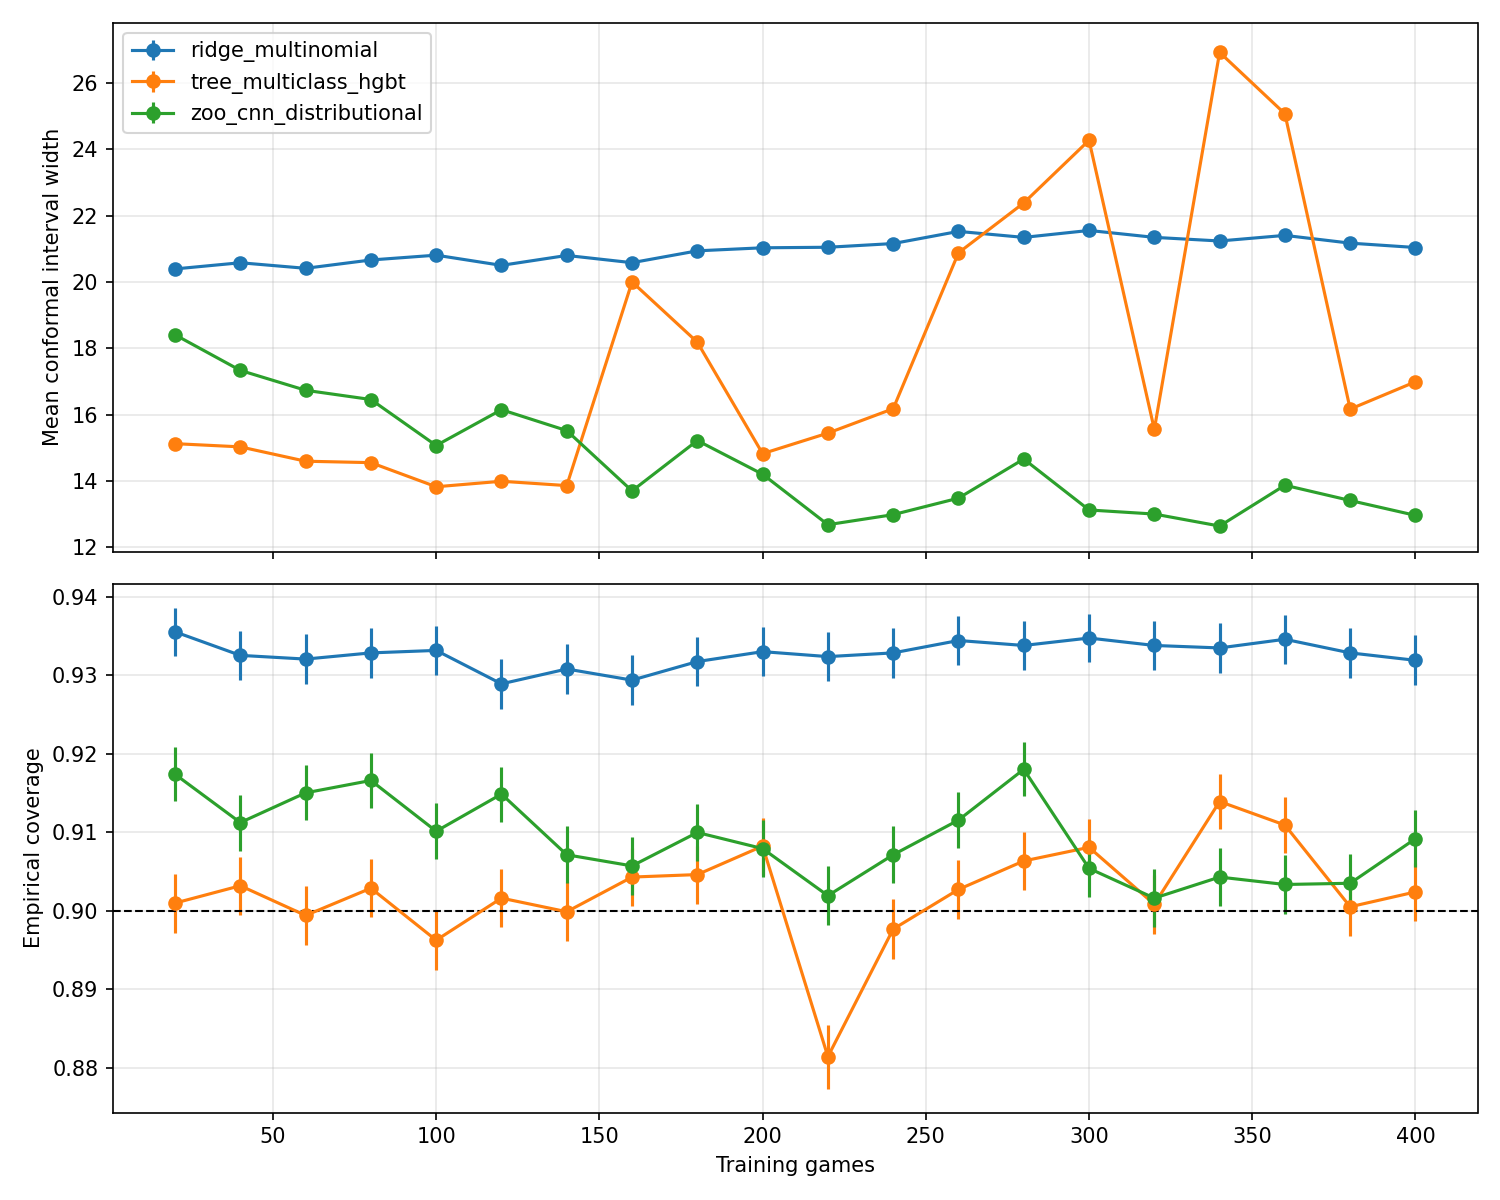
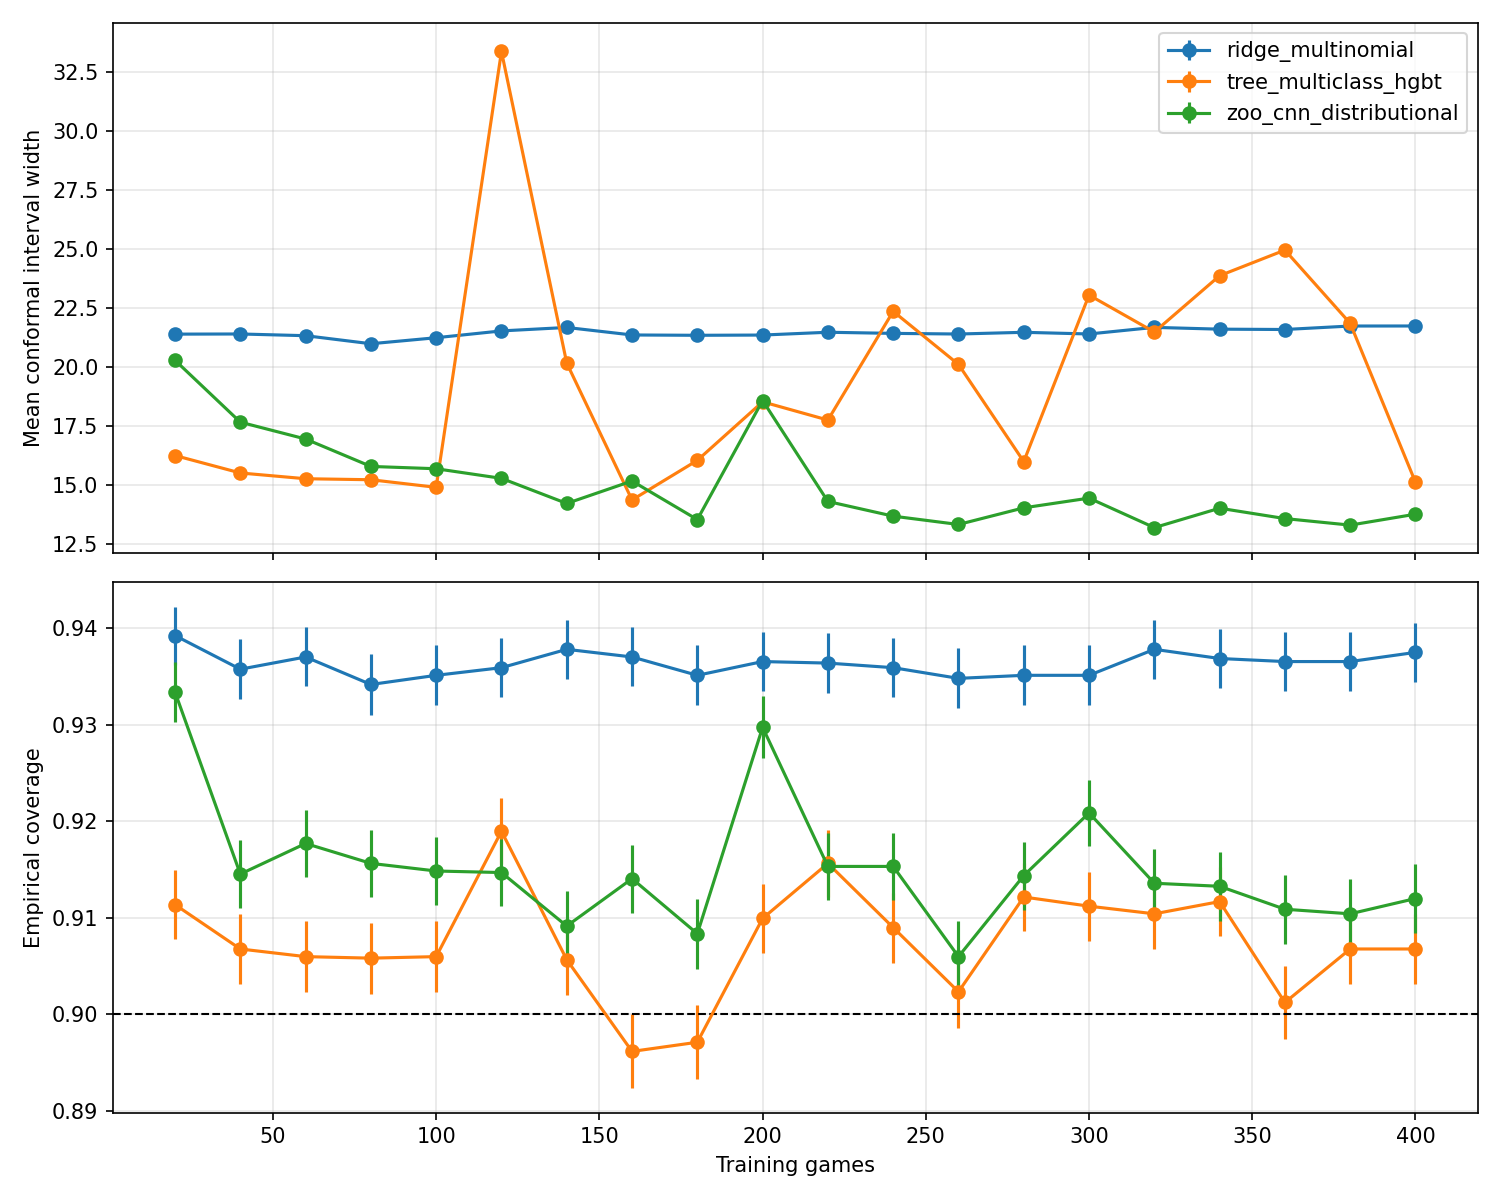
nice seed

diff --git a/training_size_sweep.py b/training_size_sweep.py
@@ -503,10 +503,10 @@ def run_sweep(
 
 
 def make_plot(results: pd.DataFrame, alpha: float, output_path: Path) -> None:
-    """Two panels: mean conformal width and empirical coverage vs n_train, with SE error bars."""
+    """Three panels: mean conformal width, empirical coverage, and NLL vs n_train, with SE error bars."""
     import matplotlib.pyplot as plt
 
-    fig, axes = plt.subplots(2, 1, figsize=(10, 8), sharex=True)
+    fig, axes = plt.subplots(3, 1, figsize=(10, 10), sharex=True)
 
     for model_name, group in results.groupby("model"):
         g = group.sort_values("n_train")
@@ -518,15 +518,21 @@ def make_plot(results: pd.DataFrame, alpha: float, output_path: Path) -> None:
         n = g["n_test"].to_numpy()
         se_cov = np.sqrt(np.maximum(0, p * (1 - p) / n))
         axes[1].errorbar(g["n_train"], g["coverage"], yerr=se_cov, marker="o", label=model_name)
+        axes[2].plot(g["n_train"], g["nll"], marker="o", label=model_name)
 
     axes[0].set_ylabel("Mean conformal interval width")
     axes[0].grid(True, alpha=0.3)
     axes[0].legend()
 
-    axes[1].set_xlabel("Training games")
     axes[1].set_ylabel("Empirical coverage")
     axes[1].axhline(1 - alpha, color="black", linestyle="--", linewidth=1)
     axes[1].grid(True, alpha=0.3)
+    axes[1].legend()
+
+    axes[2].set_xlabel("Training games")
+    axes[2].set_ylabel("NLL (test)")
+    axes[2].grid(True, alpha=0.3)
+    axes[2].legend()
 
     fig.tight_layout()
     fig.savefig(output_path, dpi=150)
@@ -562,7 +568,7 @@ def write_experiment_readme(
 def parse_args() -> argparse.Namespace:
     parser = argparse.ArgumentParser(description="Run training-size conformal stability sweep.")
     parser.add_argument("--alpha", type=float, default=0.10)
-    parser.add_argument("--seed", type=int, default=123)
+    parser.add_argument("--seed", type=int, default=209, help="Seed for split and models (209 = day of first run).")
     parser.add_argument("--max-k", type=int, default=50, help="Sweep 20-game chunks up to max_k*20 games. Outputs sweep_{max_k}.csv/.png; one sweep_README.md.")
     parser.add_argument("--local-k", type=int, default=200, help="Calibration neighbors used for local bandwidth in Tibshirani-style weighted conformal intervals.")
     parser.add_argument("--processed-dir", type=Path, default=Path("data/processed"))

diff --git a/results/sweep_README.md b/results/sweep_README.md
@@ -5,5 +5,5 @@
 - Miscoverage level: alpha=0.1 (target coverage=0.90).
 - Label support: YardIndexClipped in [71, 150] (80 classes).
 - Conformal method: interval-from-distribution central interval + Tibshirani-style locally weighted conformal padding q(x) using Gaussian kernel on predictive mean/std/entropy features (k=200).
-- Seed: 123.
+- Seed: 209.
 - Frozen hyperparameters: Ridge (SGD) alpha=0.3333333333333333; Tree (LightGBM multiclass, num_class=80) params={'learning_rate': 0.05, 'max_depth': 10}; CNN full Zoo (CRPS loss, 20% val, early stopping patience=10, same as run_zoo).
